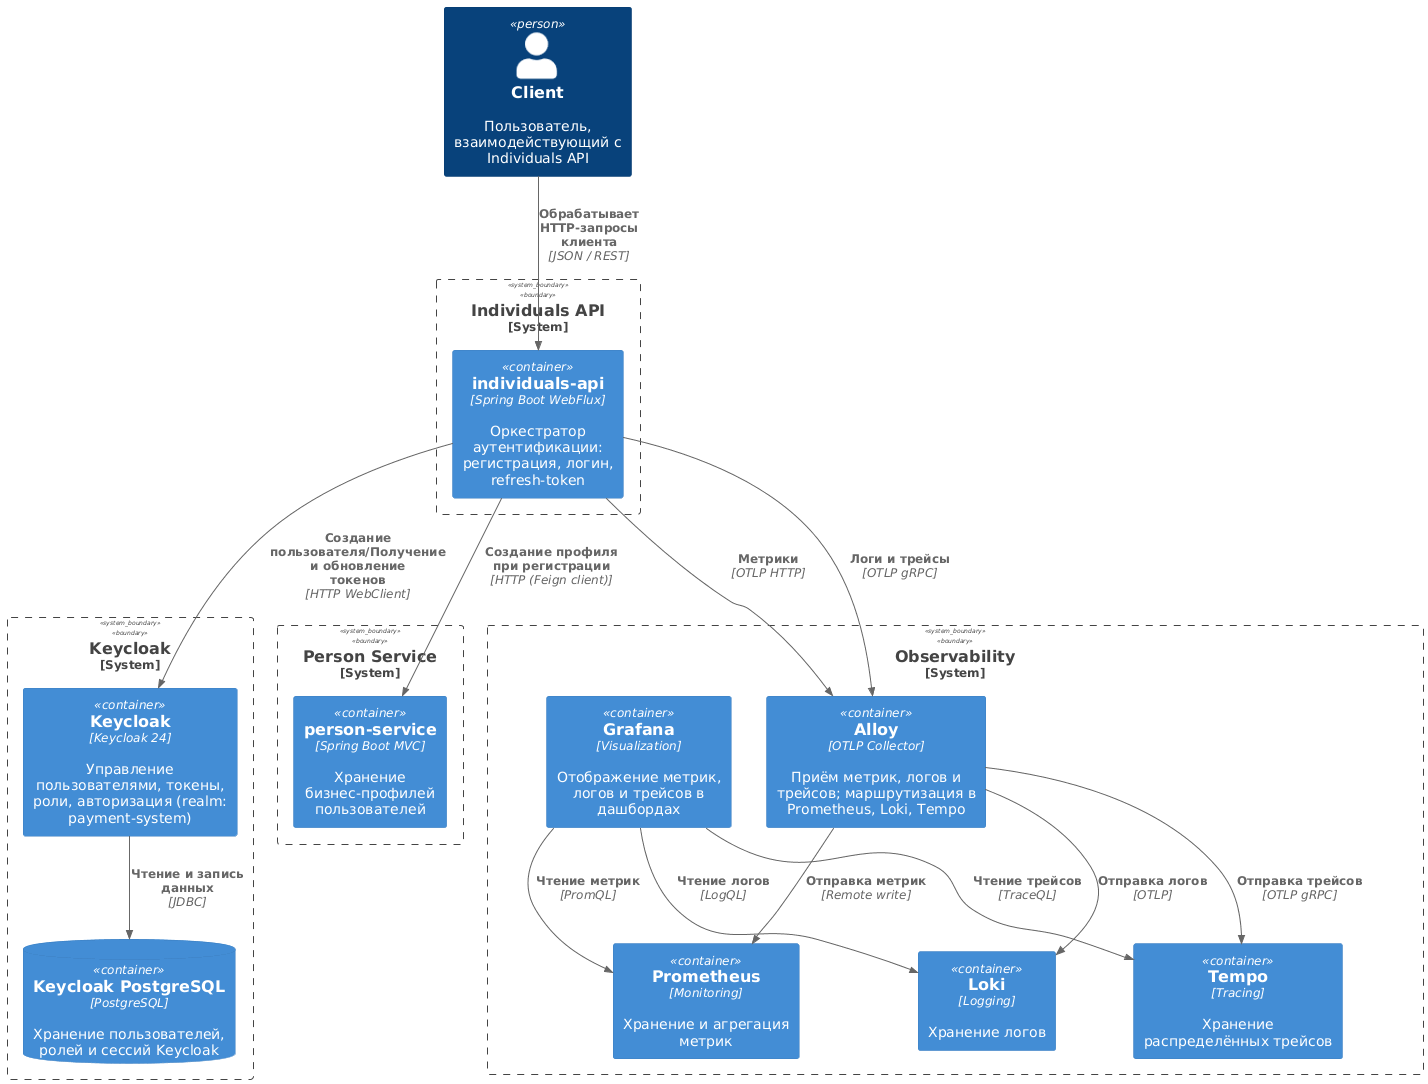
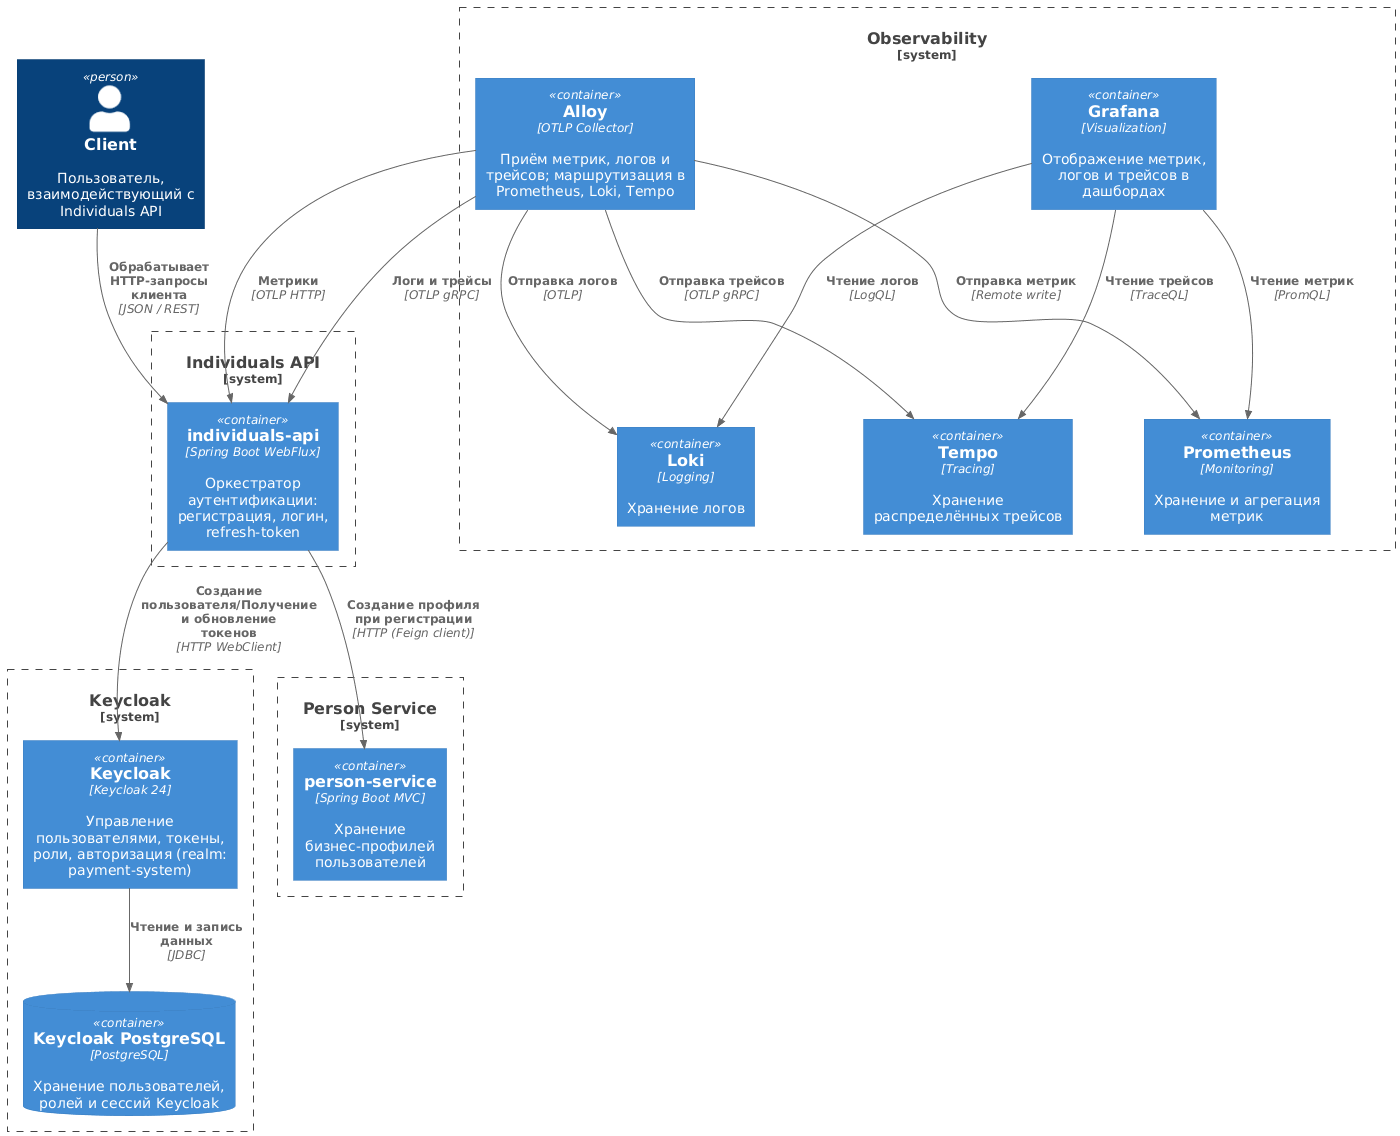
added sequence digram for individuals-api, added makefile for pulling person service from nexus, tests update

diff --git a/individuals-api/src/test/java/com/tmq/individuals/controller/AuthRestControllerV1IntegrationTest.java b/individuals-api/src/test/java/com/tmq/individuals/controller/AuthRestControllerV1IntegrationTest.java
@@ -20,6 +20,7 @@ import org.springframework.http.MediaType;
 import org.springframework.test.context.DynamicPropertyRegistry;
 import org.springframework.test.context.DynamicPropertySource;
 import org.springframework.test.web.reactive.server.WebTestClient;
+import org.testcontainers.junit.jupiter.Testcontainers;
 
 import java.util.UUID;
 
@@ -27,13 +28,15 @@ import static org.assertj.core.api.Assertions.assertThat;
 
 @SpringBootTest(webEnvironment = SpringBootTest.WebEnvironment.RANDOM_PORT)
 @TestMethodOrder(MethodOrderer.OrderAnnotation.class)
-class AuthRestControllerV1IntegrationTest extends KeycloakContainerSupport { // TODO Убрать наследование
+@Testcontainers
+class AuthRestControllerV1IntegrationTest {
 
     private static final String TEST_EMAIL = "test." + UUID.randomUUID() + "@example.com";
     private static final String TEST_PASSWORD = "Test1234!";
 
     @DynamicPropertySource
-    static void configurePersonServiceProperties(DynamicPropertyRegistry registry) {
+    static void configureProperties(DynamicPropertyRegistry registry) {
+        KeycloakContainerSupport.configureKeycloakProperties(registry);
         registry.add("persons.name", () -> "persons");
         registry.add("persons.contextId", () -> "persons");
         registry.add("persons.url",

diff --git a/person-service/src/test/java/com/tmq/person/service/controller/PersonsRestControllerV1IT.java b/person-service/src/test/java/com/tmq/person/service/controller/PersonsRestControllerV1IT.java
@@ -9,9 +9,12 @@ import org.junit.jupiter.api.Test;
 import org.springframework.beans.factory.annotation.Autowired;
 import org.springframework.boot.test.context.SpringBootTest;
 import org.springframework.http.MediaType;
+import org.springframework.test.context.DynamicPropertyRegistry;
+import org.springframework.test.context.DynamicPropertySource;
 import org.springframework.test.web.servlet.MockMvc;
 import org.springframework.test.web.servlet.setup.MockMvcBuilders;
 import org.springframework.web.context.WebApplicationContext;
+import org.testcontainers.junit.jupiter.Testcontainers;
 
 import java.util.UUID;
 
@@ -21,7 +24,13 @@ import static org.springframework.test.web.servlet.request.MockMvcRequestBuilder
 import static org.springframework.test.web.servlet.result.MockMvcResultMatchers.*;
 
 @SpringBootTest
-class PersonsRestControllerV1IT extends PostgresContainerBase {
+@Testcontainers
+class PersonsRestControllerV1IT {
+
+    @DynamicPropertySource
+    static void configureProperties(DynamicPropertyRegistry registry) {
+        PostgresContainerBase.configureProperties(registry);
+    }
 
     @Autowired
     private WebApplicationContext wac;

diff --git a/individuals-api/src/test/java/com/tmq/individuals/support/KeycloakContainerSupport.java b/individuals-api/src/test/java/com/tmq/individuals/support/KeycloakContainerSupport.java
@@ -19,11 +19,11 @@ public abstract class KeycloakContainerSupport extends BaseIntegrationSupport {
     protected static final String CLIENT_UUID = "e70d7d14-3756-488f-9abc-245aa788995c";
 
     @Container
-    protected static final KeycloakContainer keycloak = new KeycloakContainer("quay.io/keycloak/keycloak:26.2")
+    public static final KeycloakContainer keycloak = new KeycloakContainer("quay.io/keycloak/keycloak:26.2")
             .withRealmImportFile("realm-config.json");
 
     @DynamicPropertySource
-    static void configureKeycloakProperties(DynamicPropertyRegistry registry) {
+    public static void configureKeycloakProperties(DynamicPropertyRegistry registry) {
         String baseUrl = keycloak.getAuthServerUrl();
         String clientSecret = regenerateClientSecret(baseUrl);
 
@@ -70,5 +70,9 @@ public abstract class KeycloakContainerSupport extends BaseIntegrationSupport {
         } catch (Exception e) {
             throw new RuntimeException("Failed to regenerate Keycloak client secret", e);
         }
+    }
+
+    static {
+        keycloak.start();
     }
 }

diff --git a/person-service/src/test/java/com/tmq/person/service/controller/PostgresContainerBase.java b/person-service/src/test/java/com/tmq/person/service/controller/PostgresContainerBase.java
@@ -13,8 +13,12 @@ public abstract class PostgresContainerBase {
     protected static final PostgreSQLContainer<?> postgres =
             new PostgreSQLContainer<>("postgres:16-alpine");
 
+    static {
+        postgres.start();
+    }
+
     @DynamicPropertySource
-    static void configureProperties(DynamicPropertyRegistry registry) {
+    public static void configureProperties(DynamicPropertyRegistry registry) {
         registry.add("spring.datasource.url",                postgres::getJdbcUrl);
         registry.add("spring.datasource.username",           postgres::getUsername);
         registry.add("spring.datasource.password",           postgres::getPassword);

diff --git a/individuals-api/README.md b/individuals-api/README.md
@@ -25,11 +25,14 @@
 ````
 
 ## Архитектура системы
-![architecture/individuals-api-uml.png](./architecture/individuals-api-uml.png)
+![architecture/individuals-api-uml.png](./architecture/individuals-api.png)
 
 ## Внутренняя архитектура сервиса
 
 ![architecture/individuals-api-uml.png](./architecture/individuals-api-microservice.png)
+
+## Диаграмма последовательности
+![architecture/individuals-api-sequence.png](./architecture/individuals-api-sequence.png)
 
 ## Запуск
 ````
